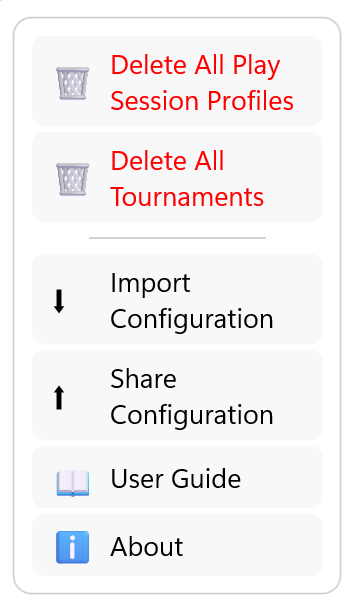
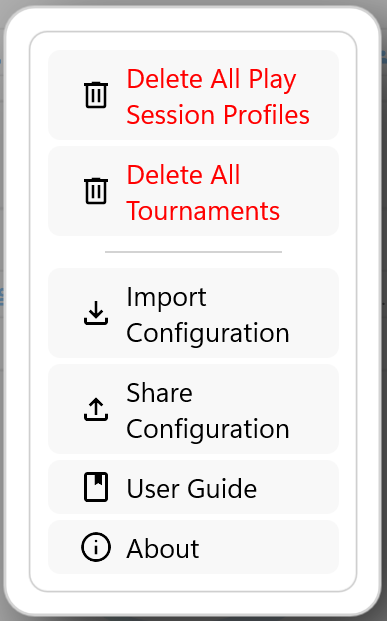
Refresh Sessions Options menu help image

diff --git a/help/08-options.md b/help/08-options.md
@@ -15,7 +15,7 @@ Select **Options** (⋮) on the tab you want to manage. The examples show the di
   </figure>
   <figure>
     <figcaption>Sessions</figcaption>
-    <img src="images/options-menu-sessions.png?v=4.0.0" alt="Sessions menu with separate options to delete all Play Session profiles or all tournaments">
+    <img src="images/options-menu-sessions.png?v=4.1.1" alt="Sessions Options menu with Delete All Play Session Profiles, Delete All Tournaments, Import Configuration, Share Configuration, User Guide and About">
   </figure>
 </div>
 
